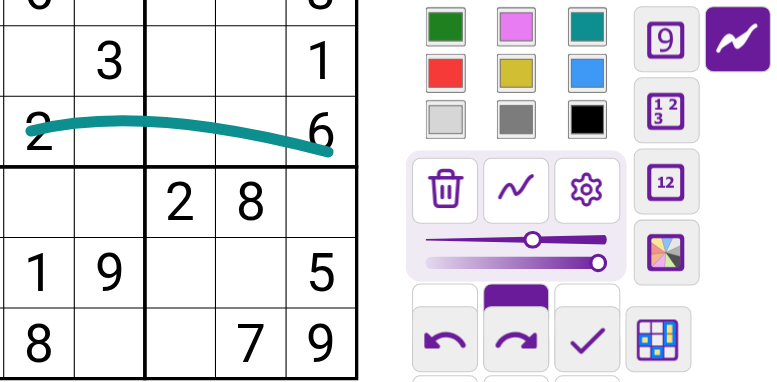
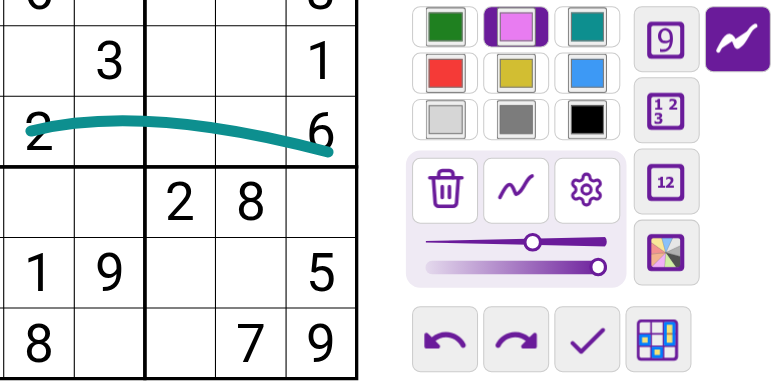
Draw Tool: edit mode shows no stray button edges (#375) (#379)
* Draw Tool: place the color buttons so edit mode shows no stray button edges (#375)

The pickers took their grid cells first, so the auto-placed color buttons
flowed into rows below the panel and peeked out around the undo row.

Closes #375

* Draw Tool: bump version, widen the edit-mode check to all four sides, share the live helpers (#375)

Closes #375

---------

diff --git a/draw-tool.user.js b/draw-tool.user.js
@@ -1,7 +1,7 @@
 // ==UserScript==
 // @name         SudokuPad Draw Tool
 // @namespace    https://github.com/caneff/sudokupad-scripts
-// @version      0.14.1
+// @version      0.14.2
 // @description  Adds a Draw tool for freehand lines, shapes and typed text, such as cage sums, in colors of its own. Each puzzle keeps its own drawing.
 // @match        https://sudokupad.app/*
 // @match        https://*.sudokupad.app/*
@@ -16,7 +16,7 @@
 (function () {
   'use strict'
 
-  const VERSION = '0.14.1'
+  const VERSION = '0.14.2'
   const TOOL_NAME = 'draw'
   const LAYER_ID = 'draw-tool-layer'
   const SVG_NS = 'http://www.w3.org/2000/svg'
@@ -645,7 +645,8 @@
     `.${TRAY_CLASS} { grid-row: ${CONTROLS_ROW} / ${SLIDERS_ROW + 1}; grid-column: 1 / ${PANEL_COLUMNS + 1}; position: absolute; inset: 0; z-index: 0; margin: ${TRAY_TOP_REM}rem -${TRAY_REACH_REM}rem 0; background: ${TRAY_COLOR}; border-radius: ${TRAY_RADIUS_PX}px; }`,
     // SudokuPad's Keypad Flipped swaps the first and third rows of colors with a transform on each '.button-row', which has no box here, so the rows are swapped by grid row.
     ...[[1, 2, 3, COLOR_ROWS], [7, 8, 9, 1]].flatMap(([a, b, c, row]) => [a, b, c].map((key) => `.setting-flipkeypad ${PANEL} :is(button[data-key="${key}"], .${PICKER_CLASS}[data-color="${key}"]) { grid-row: ${row} / span 1; }`)),
-    ...COLOR_NUMBERS.map((n) => `${PANEL} .${PICKER_CLASS}[data-color="${n}"] { grid-row: ${Math.ceil(n / PANEL_COLUMNS)} / span 1; grid-column: ${(n - 1) % PANEL_COLUMNS + 1} / span 1; }`),
+    // Each color button is placed too: left to auto-placement, the buttons flow round the pickers' cells into rows below the panel.
+    ...COLOR_NUMBERS.map((n) => `${PANEL} :is(button[data-key="${n}"], .${PICKER_CLASS}[data-color="${n}"]) { grid-row: ${Math.ceil(n / PANEL_COLUMNS)} / span 1; grid-column: ${(n - 1) % PANEL_COLUMNS + 1} / span 1; }`),
     // Edit mode: a color picker sits over each color button, with the button's line hidden under it, in the sizes SudokuPad's color tool uses for the same job.
     `.${EDITING_CLASS} button.digit::after { opacity: 0; }`,
     `.${EDITING_CLASS} .${PICKER_CLASS} { position: relative; justify-self: stretch; align-self: stretch; z-index: 10; }`,

diff --git a/site/index.html b/site/index.html
@@ -111,7 +111,7 @@
         <img class="slide" src="https://raw.githubusercontent.com/caneff/sudokupad-scripts/main/docs/research/draw-tool-slide-4-rectangle.png?v=51c356c" alt="A pink rectangle round two cells, with the Shape button showing a rectangle" width="777" height="382">
         <img class="slide" src="https://raw.githubusercontent.com/caneff/sudokupad-scripts/main/docs/research/draw-tool-slide-5-ellipse.png?v=03aa422" alt="A green ellipse round two cells, with the Shape button showing an ellipse" width="777" height="382">
         <img class="slide" src="https://raw.githubusercontent.com/caneff/sudokupad-scripts/main/docs/research/draw-tool-slide-6-text.png?v=b4081d9" alt="An orange 17 typed in a cell's corner" width="777" height="382">
-        <img class="slide" src="https://raw.githubusercontent.com/caneff/sudokupad-scripts/main/docs/research/draw-tool-slide-7-colors.png?v=a79414e" alt="A color picker over each of the nine color buttons, with the line recolored from orange to teal" width="777" height="382">
+        <img class="slide" src="https://raw.githubusercontent.com/caneff/sudokupad-scripts/main/docs/research/draw-tool-slide-7-colors.png?v=e6b8f6d" alt="A color picker over each of the nine color buttons, with the line recolored from orange to teal" width="777" height="382">
         <img class="slide" src="https://raw.githubusercontent.com/caneff/sudokupad-scripts/main/docs/research/draw-tool-slide-8-erase.png?v=17c3e29" alt="A dotted right-drag path about to cross a green line" width="777" height="382">
       </div>
       <div class="slide-bar">

diff --git a/site/draw-tool.html b/site/draw-tool.html
@@ -21,7 +21,7 @@
       <img class="slide" src="https://raw.githubusercontent.com/caneff/sudokupad-scripts/main/docs/research/draw-tool-slide-4-rectangle.png?v=51c356c" alt="A pink rectangle round two cells, with the Shape button showing a rectangle" width="777" height="382">
       <img class="slide" src="https://raw.githubusercontent.com/caneff/sudokupad-scripts/main/docs/research/draw-tool-slide-5-ellipse.png?v=03aa422" alt="A green ellipse round two cells, with the Shape button showing an ellipse" width="777" height="382">
       <img class="slide" src="https://raw.githubusercontent.com/caneff/sudokupad-scripts/main/docs/research/draw-tool-slide-6-text.png?v=b4081d9" alt="An orange 17 typed in a cell's corner" width="777" height="382">
-      <img class="slide" src="https://raw.githubusercontent.com/caneff/sudokupad-scripts/main/docs/research/draw-tool-slide-7-colors.png?v=a79414e" alt="A color picker over each of the nine color buttons, with the line recolored from orange to teal" width="777" height="382">
+      <img class="slide" src="https://raw.githubusercontent.com/caneff/sudokupad-scripts/main/docs/research/draw-tool-slide-7-colors.png?v=e6b8f6d" alt="A color picker over each of the nine color buttons, with the line recolored from orange to teal" width="777" height="382">
       <img class="slide" src="https://raw.githubusercontent.com/caneff/sudokupad-scripts/main/docs/research/draw-tool-slide-8-erase.png?v=17c3e29" alt="A dotted right-drag path about to cross a green line" width="777" height="382">
     </div>
     <div class="slide-bar">
